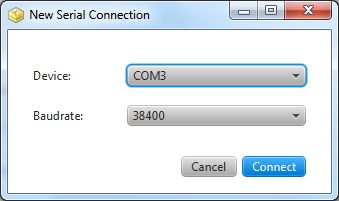
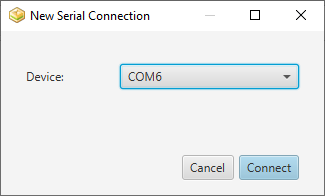
2.0.10

diff --git a/src/main/java/bayeos/logger/MainController.java b/src/main/java/bayeos/logger/MainController.java
@@ -399,7 +399,7 @@ public class MainController {
 		txtLoggerInterval.focusedProperty().addListener((o, oldValue, newValue) -> {
 			if (oldValue) {
 				try {
-					logger.setSamplingInterval(Integer.valueOf(loggerProperties.getSamplingInterval()));
+					logger.setLoggingInterval(Integer.valueOf(loggerProperties.getSamplingInterval()));
 				} catch (NumberFormatException | IOException e) {
 					log.error(e);
 					Dialogs.showErrorDialog(parentStage, "Failed to set logger interval.");
@@ -431,12 +431,33 @@ public class MainController {
 		});
 
 		txtLoggerCurrentTime.textProperty().bind(Bindings.convert(loggerProperties.currentTimeProperty()));
-		txtLoggerNextTime.textProperty().bind(Bindings.convert(loggerProperties.nextTimeProperty()));
-		txtLoggerNewRecords.textProperty().bind(Bindings.convert(loggerProperties.newRecordsProperty()));
+		
+		// txtLoggerNextTime.textProperty().bind(Bindings.convert(loggerProperties.nextTimeProperty()));
+		
+		txtLoggerNextTime.textProperty().bind(Bindings.createStringBinding(() -> {			
+			if (loggerProperties.getNextTime() == null) {
+				return "Unknown";
+			} else {
+				return loggerProperties.getNextTime().toString();
+			}
+		}, loggerProperties.nextTimeProperty()));
+		
+		
+		// txtLoggerNewRecords.textProperty().bind(Bindings.convert(loggerProperties.newRecordsProperty()));
+		
+		txtLoggerNewRecords.textProperty().bind(Bindings.createStringBinding(() -> {			
+			if (loggerProperties.getNewRecords() == null) {
+				return "Unknown";
+			} else {
+				return loggerProperties.getNewRecords().toString();
+			}
+		}, loggerProperties.newRecordsProperty()));
+		
+		
 		txtLoggerBatteryStatus.textProperty().bind(Bindings.createStringBinding(() -> {
 			if (loggerProperties.getBatteryStatus() == null) {
 				return "Unknown";
-			} else if (logger.getBatteryStatus()) {
+			} else if (loggerProperties.getBatteryStatus()) {
 				return "Ok";
 			} else {
 				return "Low";
@@ -556,7 +577,7 @@ public class MainController {
 			loggerProperties.setVersion(Float.valueOf(logger.getVersion()));
 			String name = logger.getName();
 			loggerProperties.setName(name);
-			loggerProperties.setSamplingInterval(String.valueOf(logger.getSamplingInterval()));
+			loggerProperties.setSamplingInterval(String.valueOf(logger.getLoggingInterval()));
 
 			Date ctime = logger.getTime();
 			loggerProperties.setCurrentTime(ctime);
@@ -599,16 +620,18 @@ public class MainController {
 				loggerProperties.setNewRecords(null);
 			}
 
-			loggerProperties.setBatteryStatus(logger.getBatteryStatus());
-			// Battery Warning
-			if (pref.getBoolean("checkBattery", true)) {
-				if (!loggerProperties.getBatteryStatus()) {
-					Dialogs.showWarningDialog(parentStage, "Logger battery is low.");
+			if (loggerProperties.getVersion().floatValue() > 1.2F) {				
+				Boolean bat = logger.getBatteryStatus();
+				loggerProperties.setBatteryStatus(bat);				
+				if ((bat != null) && (pref.getBoolean("checkBattery", true) && !bat)) {
+						Dialogs.showWarningDialog(parentStage, "Logger battery is low.");
+
 				}
 			}
-
+			
 		} catch (NumberFormatException | IOException e) {
 			log.error(e);
+			serialDev.disconnect();
 			Dialogs.showErrorDialog(parentStage,
 					"Failed to get meta informations from logger.\n" + serialDev.messageProperty().get());
 		}
@@ -626,7 +649,7 @@ public class MainController {
 
 		DumpFile df = dumpFileTable.getSelectionModel().getSelectedItem();
 		DialogResponse res = Dialogs.showConfirmDialog(parentStage,
-				String.format("Really delete all records of %s?", "" + df.getOrigin()), null, null,
+				String.format("Really delete this %s dump file?", "" + df.getOrigin()), null, null,
 				DialogOptions.YES_NO);
 		if (res.equals(DialogResponse.YES)) {
 			log.debug(String.format("Remove %s", df.getAbsolutePath()));

diff --git a/src/main/java/bayeos/logger/dump/DownloadFileTask.java b/src/main/java/bayeos/logger/dump/DownloadFileTask.java
@@ -2,10 +2,9 @@ package bayeos.logger.dump;
 
 import static bayeos.logger.LoggerConstants.DM_FULL;
 
-import java.io.BufferedOutputStream;
 import java.io.File;
-import java.io.FileOutputStream;
 import java.io.IOException;
+import java.io.RandomAccessFile;
 
 import org.apache.log4j.Logger;
 
@@ -25,15 +24,12 @@ public class DownloadFileTask extends ProgressTask<File> {
 	@Override
 	protected File call() throws Exception {
 		updateTitle(String.format("Dump %s to %s", logger.getName(), file.getAbsolutePath()));
-	
-		BufferedOutputStream bout = null;
-		try {
-			bout = new BufferedOutputStream(new FileOutputStream(file));
-			BulkWriter bWriter = new BulkWriter(bout);
+			
+		try (RandomAccessFile ra = new RandomAccessFile(file, "rw")){			
+			BulkWriter bWriter = new BulkWriter(ra);
 
 			long read = 0;
 			long bytes = logger.startBulkData(DM_FULL);
-
 			while (read < bytes) {
 				if (isCancelled()) {
 					try {
@@ -51,19 +47,13 @@ public class DownloadFileTask extends ProgressTask<File> {
 				bWriter.write(bulk);
 				read = read + bulk.length - 5;
 				updateProgress((read > bytes) ? bytes : read, bytes);	
-			}
-			bout.flush();
-			bout.close();
+			}			
 			logger.stopMode();
-
 		} catch (IOException e) {
 			log.error(e.getMessage());
 			logger.breakSocket();
 			logger.stopMode();
 
-		} finally {
-			if (bout != null)
-				bout.close();
 		}
 		return null;
 	}

diff --git a/src/main/java/bayeos/logger/dump/DownloadBulkTask.java b/src/main/java/bayeos/logger/dump/DownloadBulkTask.java
@@ -5,6 +5,8 @@ import static bayeos.logger.LoggerConstants.BC_SET_READ_TO_LAST_OF_BINARY_END_PO
 import java.io.BufferedOutputStream;
 import java.io.FileOutputStream;
 import java.io.IOException;
+import java.io.RandomAccessFile;
+
 import org.apache.log4j.Logger;
 
 import bayeos.logger.BulkWriter;
@@ -41,12 +43,11 @@ public class DownloadBulkTask extends ProgressTask<DumpFile> {
 			}
 
 			updateProgress(0, bytes);
-			log.info("Downloading data to " + df.getAbsolutePath());
-			try (BufferedOutputStream fout = new BufferedOutputStream(new FileOutputStream(df))) {
+			log.info("Downloading data to " + df.getAbsolutePath());			
+			try (RandomAccessFile fout = new RandomAccessFile(df, "rw")) {
 				BulkWriter bulkWriter = new BulkWriter(fout);				
 				long read = 0;
-				while (read < bytes) {
-					
+				while (read < bytes) {					
 					if (read % 100 == 0) {
 						updateProgress(read, bytes);							
 					}
@@ -63,8 +64,7 @@ public class DownloadBulkTask extends ProgressTask<DumpFile> {
 					byte[] bulk = logger.readBulk();					
 					read += bulk.length - 5;
 					bulkWriter.write(bulk);
-				}
-				fout.flush();				
+				}							
 			}
 			
 			log.debug("Send buffer command.");

diff --git a/src/main/java/bayeos/logger/serial/SerialDeviceFX.java b/src/main/java/bayeos/logger/serial/SerialDeviceFX.java
@@ -21,7 +21,7 @@ public class SerialDeviceFX implements ISerialDevice {
 	
 	private static final Logger log = Logger.getLogger(SerialDeviceFX.class);
 
-	private int timeout = 10000;
+	private int timeout = 2000;
 		
 	private SerialPort port;
 	

diff --git a/docs/user-guide.md b/docs/user-guide.md
@@ -1,5 +1,5 @@
 # BayEOS Logger FX User Guide
-Released 2020-01-22
+Released 2020-03-06
 
 <!-- @import "[TOC]" {cmd="toc" depthFrom=1 depthTo=6 orderedList=false} -->
 
@@ -38,9 +38,8 @@ BayEOS Logger FX is a utility to transfer data from BayEOS Loggers to a [BayEOS 
 - PC system clock is synchronized with a NTP time server
 
 ### Windows
-1. Download and unpack the [logger software](http://www.bayceer.uni-bayreuth.de/edv/bayeos/bayeos-logger-fx.zip)
-1. Download and install the latest [JRE 8](https://corretto.aws/downloads/latest/amazon-corretto-8-x64-windows-jre.zip)
-1. Connect your PC with a logger using a USB cable
+1. Download and unpack the [logger software](http://www.bayceer.uni-bayreuth.de/edv/bayeos/bayeos-logger-fx-windows.zip)
+1. Connect your PC with a logger or wireless adapter using an USB cable
 1. Wait until the device driver is installed
 1. Open the device manager (right click on start/device manager) and search for a new USB Serial Port. Mark the port number.  
 ![DeviceManager](DeviceManager.png)
@@ -58,7 +57,7 @@ BayEOS Logger FX is a utility to transfer data from BayEOS Loggers to a [BayEOS 
 1. Add yourself to the dialout group:
 ``sudo usermod -aG dialout <username>``
 Replace ``<username>`` with your personal system user name
-1. Connect your PC with a logger to install the required USB Serial device driver. Your OS should inform you that a new serial device called FT232R USB UART was found
+1. Connect your PC with a logger or wireless logger adapater to install the required USB Serial device driver. Your OS should inform you that a new serial device called FT232R USB UART was found
 1. Figure out the logger device by a grep for "ttyUSB" on dmesg
 1. Make the jar file executable:
 ``chmod +x bayeos-logger-fx<version>.jar``
@@ -82,7 +81,7 @@ Replace ``<username>`` with your personal system user name
 1. Connect your PC with the logger 
 1. Start the BayEOS Logger FX application by clicking the desktop icon
 1. Press the `Connect` button
-1. Choose the serial port and baudrate (38400) and press `connect`:  
+1. Choose the serial port and press `connect`:  
 ![Connect dialog](ConnectDialog.png))
 1. The main window shows the logger meta information  
 ![MainFrameConnected](MainFrameConnected.png)
@@ -123,7 +122,7 @@ The live mode allows you to verify the sensor data in situ. It can be activated 
 ## Logger Configuration
 You can configure your logger on the main logger tab to set the logger:
 **Name**: A string to identify your logger on a destination gateway (mandatory)
-**Sampling interval**: interval to save sensor values in secs (mandatory).
+**Logging interval**: interval to save logger values in secs (mandatory).
 **Current time**: current logger time (mandatory), can be synced with your local PC time
 
 ## Troubleshooting

diff --git a/README.md b/README.md
@@ -15,9 +15,16 @@ Please refer to the ![user guide](/docs/user-guide.md) for more information.
 * **Oliver Archner** - *Programmer* - [BayCEER, University of Bayreuth](https://www.bayceer.uni-bayreuth.de)
 
 ## History
+### Version 2.0.10,  2020
+- Reduced serial connection timeout from 10 to 2 seconds
+- Enhancement: Out of order support in bulk writer
+- Sampling interval renamed to logging interval
+- Bundled JRE for Windows  
+ 
 ### Version 2.0.9,  2020
 - Enhancement: Render all dates in system time zone
 - Enhancement: Info generation on corrupt files 
+
 
 ### Version 2.0.8, September 19, 2018
 - Fixed bug: GetBattery status  
